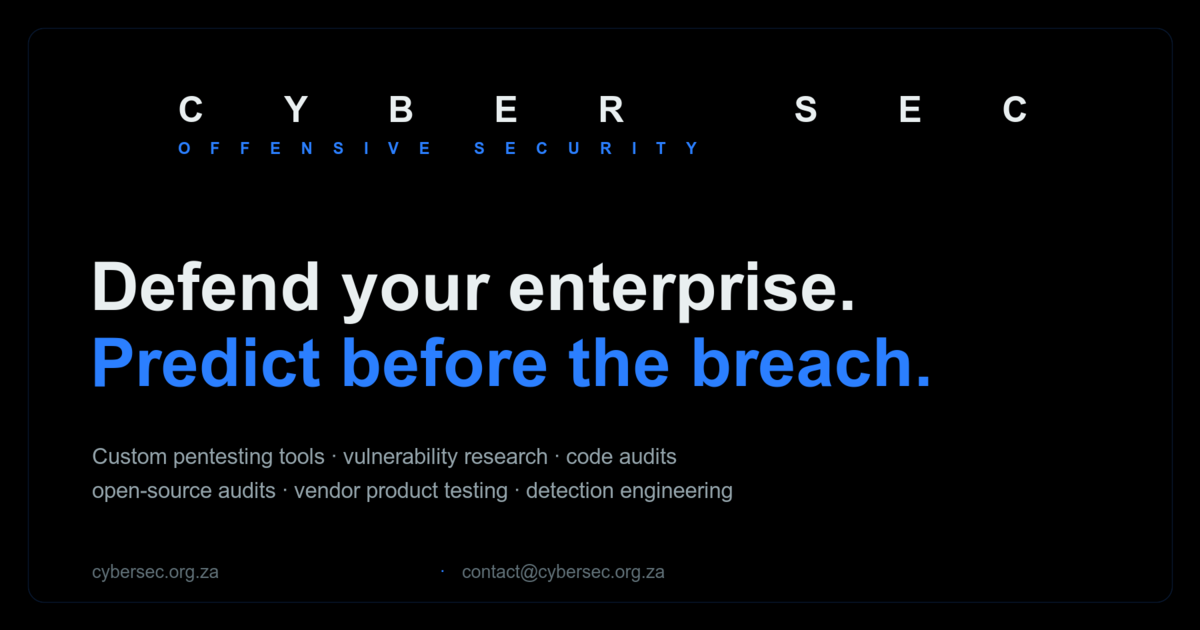
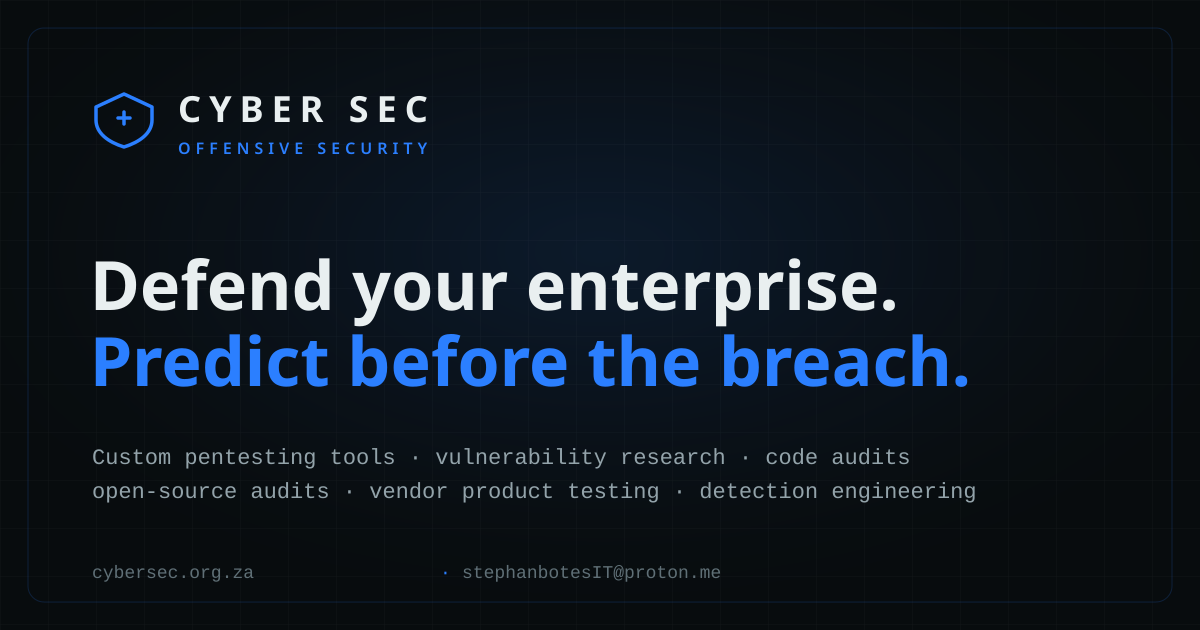
Replace remaining contact@cybersec.org.za with stephanbotesIT@proton.me
Covers the last 25 occurrences across 11 HTML pages plus the og-image SVG;
the rest of the site already used the proton.me address. Regenerated
assets/og-image.png from the updated SVG so the social preview card matches.

The cybersec.org.za domain itself is unchanged — only the mailbox.

Claude-Session: https://claude.ai/code/session_01U7xdqMZCdXRPK4h9vcrTtb

diff --git a/contact.html b/contact.html
@@ -145,9 +145,9 @@
         <h2 id="contact-h">Reach us directly.</h2>
         <p class="section-sub">A direct line to the person who will scope, price, and deliver your engagement — not an intake form that disappears into a queue.</p>
 
-        <!--<a class="contact-mail" href="mailto:contact@cybersec.org.za?subject=Security%20engagement%20enquiry">
+        <!--<a class="contact-mail" href="mailto:stephanbotesIT@proton.me?subject=Security%20engagement%20enquiry">
           <span class="contact-mail-ico" aria-hidden="true">&#9993;</span>
-          <span><b>contact@cybersec.org.za</b><small>Encrypted communication · replies within 1–2 business days</small></span>
+          <span><b>stephanbotesIT@proton.me</b><small>Encrypted communication · replies within 1–2 business days</small></span>
         </a>-->
 
         <a class="contact-mail" href="mailto:stephanbotesIT@proton.me">
@@ -259,7 +259,7 @@
       <a href="contact.html">Contact</a>
     </nav>
     <div class="footer-meta">
-      <!--<a href="mailto:contact@cybersec.org.za">contact@cybersec.org.za</a>-->
+      <!--<a href="mailto:stephanbotesIT@proton.me">stephanbotesIT@proton.me</a>-->
       <a href="mailto:stephanbotesIT@proton.me">stephanbotesIT@proton.me</a>
       <a href="/.well-known/security.txt">security.txt</a>
       <span>&copy; <span id="year">2026</span> Cyber Sec. Authorized testing only.</span>

diff --git a/index.html b/index.html
@@ -510,9 +510,9 @@ Predict before the breach.">Defend your enterprise.<br><span class="hl">Predict 
       </div>
 
       <!--<div class="reveal">
-        <a class="contact-mail" href="mailto:contact@cybersec.org.za?subject=Security%20engagement%20enquiry">
+        <a class="contact-mail" href="mailto:stephanbotesIT@proton.me?subject=Security%20engagement%20enquiry">
           <span class="contact-mail-ico" aria-hidden="true">✉</span>
-          <span><b>contact@cybersec.org.za</b><small>Encrypted communications · replies within 1–2 business days</small></span>
+          <span><b>stephanbotesIT@proton.me</b><small>Encrypted communications · replies within 1–2 business days</small></span>
         </a>
       </div>-->
 
@@ -547,7 +547,7 @@ Predict before the breach.">Defend your enterprise.<br><span class="hl">Predict 
       <a href="contact.html">Contact</a>
     </nav>
     <div class="footer-meta">
-      <!--<a href="mailto:contact@cybersec.org.za">contact@cybersec.org.za</a>-->
+      <!--<a href="mailto:stephanbotesIT@proton.me">stephanbotesIT@proton.me</a>-->
       <a href="mailto:stephanbotesIT@proton.me">stephanbotesIT@proton.me</a>
       <a href="/.well-known/security.txt">security.txt</a>
       <span>&copy; <span id="year">2026</span> Cyber Sec. Authorized testing only.</span>

diff --git a/services.html b/services.html
@@ -388,7 +388,7 @@ oss-audits  ·  vendor-testing  ·  detection-engineering
       <a href="contact.html">Contact</a>
     </nav>
     <div class="footer-meta">
-      <!--<a href="mailto:contact@cybersec.org.za">contact@cybersec.org.za</a>-->
+      <!--<a href="mailto:stephanbotesIT@proton.me">stephanbotesIT@proton.me</a>-->
       <a href="mailto:stephanbotesIT@proton.me">stephanbotesIT@proton.me</a>
       <a href="/.well-known/security.txt">security.txt</a>
       <span>&copy; <span id="year">2026</span> Cyber Sec. Authorized testing only.</span>

diff --git a/disclosure.html b/disclosure.html
@@ -213,7 +213,7 @@
       <a href="contact.html">Contact</a>
     </nav>
     <div class="footer-meta">
-      <!--<a href="mailto:contact@cybersec.org.za">contact@cybersec.org.za</a>-->
+      <!--<a href="mailto:stephanbotesIT@proton.me">stephanbotesIT@proton.me</a>-->
       <a href="mailto:stephanbotesIT@proton.me">stephanbotesIT@proton.me</a>
       <a href="/.well-known/security.txt">security.txt</a>
       <span>&copy; <span id="year">2026</span> Cyber Sec. Authorized testing only.</span>

diff --git a/facts.html b/facts.html
@@ -219,7 +219,7 @@
       <a href="contact.html">Contact</a>
     </nav>
     <div class="footer-meta">
-      <!--<a href="mailto:contact@cybersec.org.za">contact@cybersec.org.za</a>-->
+      <!--<a href="mailto:stephanbotesIT@proton.me">stephanbotesIT@proton.me</a>-->
       <a href="mailto:stephanbotesIT@proton.me">stephanbotesIT@proton.me</a>
       <a href="/.well-known/security.txt">security.txt</a>
       <span>&copy; <span id="year">2026</span> Cyber Sec. Authorized testing only.</span>

diff --git a/paia.html b/paia.html
@@ -285,7 +285,7 @@
       <a href="contact.html">Contact</a>
     </nav>
     <div class="footer-meta">
-      <!--<a href="mailto:contact@cybersec.org.za">contact@cybersec.org.za</a>-->
+      <!--<a href="mailto:stephanbotesIT@proton.me">stephanbotesIT@proton.me</a>-->
       <a href="mailto:stephanbotesIT@proton.me">stephanbotesIT@proton.me</a>
       <a href="/.well-known/security.txt">security.txt</a>
       <span>&copy; <span id="year">2026</span> Cyber Sec. Authorized testing only.</span>

diff --git a/privacy.html b/privacy.html
@@ -314,7 +314,7 @@
       <a href="contact.html">Contact</a>
     </nav>
     <div class="footer-meta">
-      <!--<a href="mailto:contact@cybersec.org.za">contact@cybersec.org.za</a>-->
+      <!--<a href="mailto:stephanbotesIT@proton.me">stephanbotesIT@proton.me</a>-->
       <a href="mailto:stephanbotesIT@proton.me">stephanbotesIT@proton.me</a>
       <a href="/.well-known/security.txt">security.txt</a>
       <span>&copy; <span id="year">2026</span> Cyber Sec. Authorized testing only.</span>

diff --git a/terms.html b/terms.html
@@ -272,7 +272,7 @@
       <a href="contact.html">Contact</a>
     </nav>
     <div class="footer-meta">
-      <!--<a href="mailto:contact@cybersec.org.za">contact@cybersec.org.za</a>-->
+      <!--<a href="mailto:stephanbotesIT@proton.me">stephanbotesIT@proton.me</a>-->
       <a href="mailto:stephanbotesIT@proton.me">stephanbotesIT@proton.me</a>
       <a href="/.well-known/security.txt">security.txt</a>
       <span>&copy; <span id="year">2026</span> Cyber Sec. Authorized testing only.</span>

diff --git a/about.html b/about.html
@@ -364,7 +364,7 @@
       <a href="contact.html">Contact</a>
     </nav>
     <div class="footer-meta">
-      <!--<a href="mailto:contact@cybersec.org.za">contact@cybersec.org.za</a>-->
+      <!--<a href="mailto:stephanbotesIT@proton.me">stephanbotesIT@proton.me</a>-->
       <a href="mailto:stephanbotesIT@proton.me">stephanbotesIT@proton.me</a>
       <a href="/.well-known/security.txt">security.txt</a>
       <span>© <span id="year">2026</span> Cyber Sec. Authorized testing only.</span>

diff --git a/resources.html b/resources.html
@@ -339,7 +339,7 @@
       <a href="contact.html">Contact</a>
     </nav>
     <div class="footer-meta">
-      <!--<a href="mailto:contact@cybersec.org.za">contact@cybersec.org.za</a>-->
+      <!--<a href="mailto:stephanbotesIT@proton.me">stephanbotesIT@proton.me</a>-->
       <a href="mailto:stephanbotesIT@proton.me">stephanbotesIT@proton.me</a>
       <a href="/.well-known/security.txt">security.txt</a>
       <span>© <span id="year">2026</span> Cyber Sec. Authorized testing only.</span>
